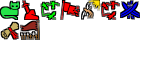
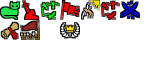
Added a game finished event and notification

Changed region(s): [[0.375, 0.275, 0.5, 0.5]]

diff --git a/Narivia/Screens/GameplayScreen.cs b/Narivia/Screens/GameplayScreen.cs
@@ -171,6 +171,7 @@ namespace Narivia.Screens
             game.PlayerRegionAttacked += game_OnPlayerRegionAttacked;
             game.FactionDestroyed += game_OnFactionDestroyed;
             game.FactionRevived += game_OnFactionRevived;
+            game.FactionWon += game_OnFactionWon;
 
             GameMap.Clicked += GameMap_Clicked;
 
@@ -383,6 +384,21 @@ namespace Narivia.Screens
                     ShowNotification($"{factionName} revived!",
                                      $"A significant development in the war just took place, " +
                                      $"as {factionName} was revived!",
+                                     NotificationType.Informational,
+                                     NotificationStyle.Big,
+                                     new Vector2(256, 192));
+                };
+        }
+
+        void game_OnFactionWon(object sender, FactionEventArgs e)
+        {
+            string factionName = game.GetFactionName(e.FactionId);
+
+            NotificationBar.AddNotification(NotificationIcon.GameFinished).Clicked += delegate
+                {
+                    ShowNotification($"{factionName} has won!",
+                                     $"The war is over!" + Environment.NewLine +
+                                     $"{factionName} has conquered the world and established a new world order!",
                                      NotificationType.Informational,
                                      NotificationStyle.Big,
                                      new Vector2(256, 192));

diff --git a/Narivia.GameLogic/GameManagers/GameManager.cs b/Narivia.GameLogic/GameManagers/GameManager.cs
@@ -41,6 +41,11 @@ namespace Narivia.GameLogic.GameManagers
         public event FactionEventHandler FactionRevived;
 
         /// <summary>
+        /// Occurs a faction won the game.
+        /// </summary>
+        public event FactionEventHandler FactionWon;
+
+        /// <summary>
         /// Gets or sets the world tiles.
         /// </summary>
         /// <value>The world tiles.</value>
@@ -180,6 +185,7 @@ namespace Narivia.GameLogic.GameManagers
 
             world.Regions.Values.ToList().ForEach(r => r.Locked = false);
             UpdateFactionsAliveStatus();
+            CheckForWinner();
 
             Turn += 1;
         }
@@ -527,6 +533,21 @@ namespace Narivia.GameLogic.GameManagers
                 {
                     FactionRevived(this, new FactionEventArgs(faction.Id));
                 }
+            }
+        }
+
+        void CheckForWinner()
+        {
+            if (world.Factions.Values.Count(f => f.Alive) > 1)
+            {
+                return;
+            }
+
+            Faction faction = world.Factions.Values.FirstOrDefault(f => f.Alive);
+
+            if (FactionWon != null)
+            {
+                FactionWon(this, new FactionEventArgs(faction.Id));
             }
         }
 

diff --git a/Narivia/Interface/Widgets/Enumerations/NotificationIcon.cs b/Narivia/Interface/Widgets/Enumerations/NotificationIcon.cs
@@ -26,7 +26,7 @@
         FactionDestroyed = 3,
 
         /// <summary>
-        /// 3 - Icon for revived faction notitifications.
+        /// 4 - Icon for revived faction notitifications.
         /// </summary>
         FactionRevived = 4,
 
@@ -46,23 +46,28 @@
         RegionLiberated = 7,
 
         /// <summary>
-        /// 9 - Icon for turn reports.
+        /// 8 - Icon for turn reports.
         /// </summary>
         TurnReport = 8,
 
         /// <summary>
-        /// 4 - Icon fo recruitment reports.
+        /// 9 - Icon fo recruitment reports.
         /// </summary>
         RecruitmentReport = 9,
 
         /// <summary>
-        /// 8 - Icon for relations reports.
+        /// 10 - Icon for relations reports.
         /// </summary>
         RelationsReport = 10,
 
         /// <summary>
-        /// 10 - Icon for generic information.
+        /// 11 - Icon for when the game has finished.
         /// </summary>
-        Information = 11
+        GameFinished = 11,
+
+        /// <summary>
+        /// 12 - Icon for generic information.
+        /// </summary>
+        Information = 12
     }
 }

diff --git a/Narivia.GameLogic/GameManagers/Interfaces/IGameManager.cs b/Narivia.GameLogic/GameManagers/Interfaces/IGameManager.cs
@@ -24,6 +24,11 @@ namespace Narivia.GameLogic.GameManagers.Interfaces
         event FactionEventHandler FactionRevived;
 
         /// <summary>
+        /// Occurs a faction won the game.
+        /// </summary>
+        event FactionEventHandler FactionWon;
+
+        /// <summary>
         /// Gets or sets the world tiles.
         /// </summary>
         /// <value>The world tiles.</value>
